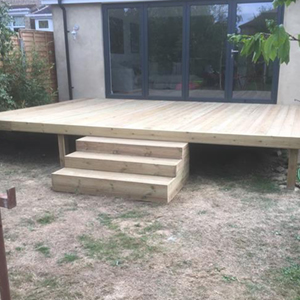
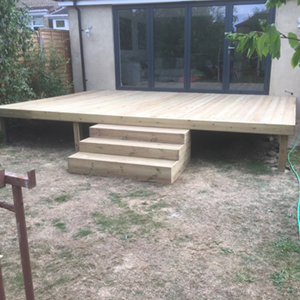
More photos added and slight text changes

diff --git a/app/block-paving.html b/app/block-paving.html
@@ -90,12 +90,14 @@
             <div class="row">
               <div class="col-8">
                 <h2>Block paving for driveways</h2>
-                <!-- <p>These days a driveway can be so much more than somewhere to park your car because you can no longer get it in the garage. A beautiful drive can be a feature in its own right.<br /><br /> -->
                   Long lasting, practical and value adding, our driveways can bring real kerb appeal to your home and a touch of cost effective luxury to the way it looks.<br /><br />
                   From the understated to the ostentatious and from the classic to the contemporary, we can design and install a driveway that perfectly suits your home, lifestyle, taste and pocket.<br /><br />
+                  Block paving is ideal for driveways. Not only does it look attractive, but it is both practical and durable.<br /><br />
                   We can offer you a wide range of materials and finishing touches to choose from, all of which will be planned and installed by our fully trained, expert and experienced team. You’ll find them fast, tidy, conscientious and working in ways that are convenient to you and your family.<br /><br />
                   You can select from a wide range of natural stone and block paving materials, with a large range of patterns, styles and finishing. Please call for our free brochure and free site survey.<br /><br />
-                  There are many different kinds of block paving driveways, with many styles and colours of block paving available. Whether you want a traditional tumbled block paving driveway, contemporary paving or a standard block paving driveway. Block paving is durable, porous and virtually maintenance free and will keep its looks for many years to come. Our installations come with a five year guarantee. By choosing the right style and colour of paving, it is easy to transform the entrance to your home. We construct high quality patios with varying degrees of complexity, including split levels.
+                  There are many different kinds of block paving driveways, with many styles and colours of block paving available. Whether you want a traditional tumbled block paving driveway, contemporary paving or a standard block paving driveway.<br /><br />
+                  All of our driveways are installed to the highest standard with weed prevention membranes and correct drainage.<br /><br />
+                  Block paving is durable, porous and virtually maintenance free, will keep its looks for many years and comes with a 10 year guarantee. By choosing the right style and colour of paving, it is easy to transform the entrance to your home.
                 </p>
               </div>
               <div class="col-4 sidebar">
@@ -137,6 +139,11 @@
             <a class="example-image-link" href="assets/subpage-images/block-paving/3.jpg" data-lightbox="example-set" data-title=""><img class="example-image" src="assets/subpage-images/block-paving/thumbnails/3.jpg" alt="Block paving" /></a>
             <a class="example-image-link" href="assets/subpage-images/block-paving/4.jpg" data-lightbox="example-set" data-title=""><img class="example-image" src="assets/subpage-images/block-paving/thumbnails/4.jpg" alt="Block paving" /></a>
             <a class="example-image-link" href="assets/subpage-images/block-paving/5.jpg" data-lightbox="example-set" data-title=""><img class="example-image" src="assets/subpage-images/block-paving/thumbnails/5.jpg" alt="Block paving" /></a>
+            <a class="example-image-link" href="assets/subpage-images/block-paving/6.jpg" data-lightbox="example-set" data-title=""><img class="example-image" src="assets/subpage-images/block-paving/thumbnails/6.jpg" alt="Block paving" /></a>
+            <a class="example-image-link" href="assets/subpage-images/block-paving/7.jpg" data-lightbox="example-set" data-title=""><img class="example-image" src="assets/subpage-images/block-paving/thumbnails/7.jpg" alt="Block paving" /></a>
+            <a class="example-image-link" href="assets/subpage-images/block-paving/8.jpg" data-lightbox="example-set" data-title=""><img class="example-image" src="assets/subpage-images/block-paving/thumbnails/8.jpg" alt="Block paving" /></a>
+            <a class="example-image-link" href="assets/subpage-images/block-paving/9.jpg" data-lightbox="example-set" data-title=""><img class="example-image" src="assets/subpage-images/block-paving/thumbnails/9.jpg" alt="Block paving" /></a>
+            <a class="example-image-link" href="assets/subpage-images/block-paving/10.jpg" data-lightbox="example-set" data-title=""><img class="example-image" src="assets/subpage-images/block-paving/thumbnails/10.jpg" alt="Block paving" /></a>
           </div>
         </div>
       </div>

diff --git a/app/gallery.html b/app/gallery.html
@@ -111,10 +111,8 @@
 
       <div class="getintouch-cta">
         <div class="container">
-          <div class="row">
-            <div class="col-12">
-              <p>Call us today on 0800 038 5839 for a free quotation</p>
-            </div>
+          <div class="row gallery-button">
+            <a href="contact.html" class="button">Call us for your free quote - 0800 038 5839</a>
           </div>
         </div>
       </div>
@@ -159,6 +157,14 @@
             <a class="example-image-link" href="assets/gallery/30.jpg" data-lightbox="example-set" data-title=""><img class="example-image" src="assets/gallery/thumbnails/30.jpg" alt="" /></a>
             <a class="example-image-link" href="assets/gallery/31.jpg" data-lightbox="example-set" data-title=""><img class="example-image" src="assets/gallery/thumbnails/31.jpg" alt="" /></a>
             <a class="example-image-link" href="assets/gallery/32.jpg" data-lightbox="example-set" data-title=""><img class="example-image" src="assets/gallery/thumbnails/32.jpg" alt="" /></a>
+            <a class="example-image-link" href="assets/gallery/33.jpg" data-lightbox="example-set" data-title=""><img class="example-image" src="assets/gallery/thumbnails/33.jpg" alt="" /></a>
+            <a class="example-image-link" href="assets/gallery/34.jpg" data-lightbox="example-set" data-title=""><img class="example-image" src="assets/gallery/thumbnails/34.jpg" alt="" /></a>
+            <a class="example-image-link" href="assets/gallery/35.jpg" data-lightbox="example-set" data-title=""><img class="example-image" src="assets/gallery/thumbnails/35.jpg" alt="" /></a>
+            <a class="example-image-link" href="assets/gallery/36.jpg" data-lightbox="example-set" data-title=""><img class="example-image" src="assets/gallery/thumbnails/36.jpg" alt="" /></a>
+            <a class="example-image-link" href="assets/gallery/37.jpg" data-lightbox="example-set" data-title=""><img class="example-image" src="assets/gallery/thumbnails/37.jpg" alt="" /></a>
+            <a class="example-image-link" href="assets/gallery/38.jpg" data-lightbox="example-set" data-title=""><img class="example-image" src="assets/gallery/thumbnails/38.jpg" alt="" /></a>
+            <a class="example-image-link" href="assets/gallery/39.jpg" data-lightbox="example-set" data-title=""><img class="example-image" src="assets/gallery/thumbnails/39.jpg" alt="" /></a>
+            <a class="example-image-link" href="assets/gallery/40.jpg" data-lightbox="example-set" data-title=""><img class="example-image" src="assets/gallery/thumbnails/40.jpg" alt="" /></a>
           </div>
         </div>
       </div>

diff --git a/app/permeable-paving.html b/app/permeable-paving.html
@@ -91,7 +91,8 @@
               <div class="col-8">
                 <h2>Permeable paving</h2>
                 <p>Permeable pavers, also known as permeable interlocking concrete pavements (PICP), are installed with layers of varying-sized stone or aggregate underneath that filter and direct stormwater to underground aquifers. With permeable concrete pavers, any rain that falls on your patio, walkway or driveway seeps back into the ground, reducing the burden on storm drains.<br /><br />
-                  A permeable paver system can even be designed to harvest and recycle rainwater.
+                  A permeable paver system can even be designed to harvest and recycle rainwater. It's unique design allows rainwater to be gradually filtered back into the soil naturally, resulting in the control and stabilization of soil erosion. Its eco-friendly design reduces run-off and allows greenery to grow right through it, creating a highly unique hardscape design that works in harmony with nature. This permeable paver boasts an attractive residential look that stands up to even the heaviest vehicles. Environmentally and economically sound for their reduction in water run-off and long-lasting durability.<br /><br />
+                  And what's more, our permeable paving solutions do not require any planning permission.
                 </p>
               </div>
               <div class="col-4 sidebar">

diff --git a/app/patios.html b/app/patios.html
@@ -144,6 +144,8 @@
             <a class="example-image-link" href="assets/subpage-images/patios/13.jpg" data-lightbox="example-set" data-title=""><img class="example-image" src="assets/subpage-images/patios/thumbnails/13.jpg" alt="" /></a>
             <a class="example-image-link" href="assets/subpage-images/patios/14.jpg" data-lightbox="example-set" data-title=""><img class="example-image" src="assets/subpage-images/patios/thumbnails/14.jpg" alt="" /></a>
             <a class="example-image-link" href="assets/subpage-images/patios/15.jpg" data-lightbox="example-set" data-title=""><img class="example-image" src="assets/subpage-images/patios/thumbnails/15.jpg" alt="" /></a>
+            <a class="example-image-link" href="assets/subpage-images/patios/16.jpg" data-lightbox="example-set" data-title=""><img class="example-image" src="assets/subpage-images/patios/thumbnails/16.jpg" alt="" /></a>
+            <a class="example-image-link" href="assets/subpage-images/patios/17.jpg" data-lightbox="example-set" data-title=""><img class="example-image" src="assets/subpage-images/patios/thumbnails/17.jpg" alt="" /></a>
           </div>
         </div>
       </div>

diff --git a/app/artificial-grass.html b/app/artificial-grass.html
@@ -137,6 +137,7 @@
             <a class="example-image-link" href="assets/subpage-images/artificial-grass/6.jpg" data-lightbox="example-set" data-title=""><img class="example-image" src="assets/subpage-images/artificial-grass/thumbnails/6.jpg" alt="" /></a>
             <a class="example-image-link" href="assets/subpage-images/artificial-grass/7.jpg" data-lightbox="example-set" data-title=""><img class="example-image" src="assets/subpage-images/artificial-grass/thumbnails/7.jpg" alt="" /></a>
             <a class="example-image-link" href="assets/subpage-images/artificial-grass/8.jpg" data-lightbox="example-set" data-title=""><img class="example-image" src="assets/subpage-images/artificial-grass/thumbnails/8.jpg" alt="" /></a>
+            <a class="example-image-link" href="assets/subpage-images/artificial-grass/9.jpg" data-lightbox="example-set" data-title=""><img class="example-image" src="assets/subpage-images/artificial-grass/thumbnails/9.jpg" alt="" /></a>
           </div>
         </div>
       </div>

diff --git a/app/assets/css/style.css b/app/assets/css/style.css
@@ -971,7 +971,7 @@ h6 {
   background: url("../subpage-images/landscaping/lead.jpg"); }
 
 .main .lead-gallery {
-  background: url("../subpage-images/gallery/lead.jpg"); }
+  background: url("../gallery/lead.jpg"); }
 
 .main .lead-contact {
   background: url("../subpage-images/contact/lead.jpg"); }
@@ -983,6 +983,9 @@ h6 {
     color: #f4f4f4; }
   .main .gallery .example-image-link {
     width: 300px; }
+
+.main .gallery-button {
+  padding: 0px 50px 20px; }
 
 .footer {
   background: #3c3c3c;

diff --git a/dist/scss/partials/_main.scss b/dist/scss/partials/_main.scss
@@ -293,7 +293,7 @@
   }
 
   .lead-gallery {
-    background: url('../subpage-images/gallery/lead.jpg')
+    background: url('../gallery/lead.jpg')
   }
 
   .lead-contact {
@@ -311,5 +311,9 @@
     .example-image-link {
       width: 300px;
     }
+  }
+
+  .gallery-button {
+    padding: 0px 50px 20px;
   }
 }
